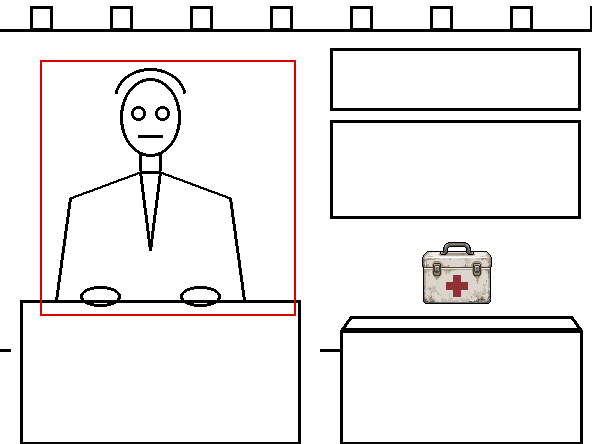
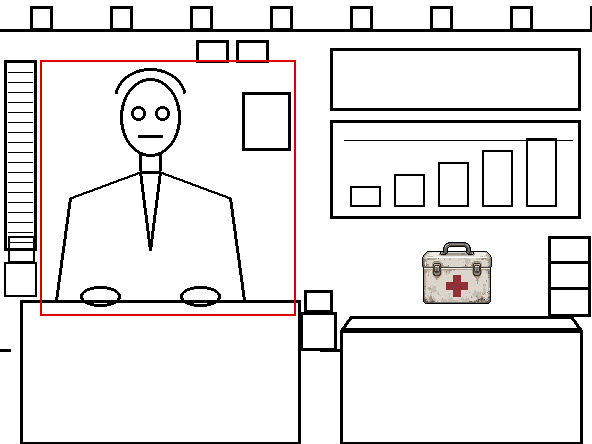
망상홈쇼핑 v7: 빈 배경을 스튜디오 물건으로 채움
Claude-Session: https://claude.ai/code/session_01JodrzfFwd9L9MmMm1b72vB

diff --git a/game-src/art/pixellab-test-20261028/homeshop/sketch_ds_studio_v7.py b/game-src/art/pixellab-test-20261028/homeshop/sketch_ds_studio_v7.py
@@ -18,6 +18,14 @@ d.line([140,172,150,250,160,172],fill=C,width=w)
 d.rectangle([20,300,300,444],outline=C,width=w)                      # 단상
 d.ellipse([80,286,120,306],outline=C,width=w); d.ellipse([180,286,220,306],outline=C,width=w)
 d.polygon([(340,330),(582,330),(572,316),(350,316)],outline=C,width=w); d.rectangle([340,330,582,444],outline=C,width=w)
+# 빈 곳 채우기(사용자 11-09 「배경 저렇게 비워 놓을거냐」): 위키 메인 스튜디오 물건
+d.rectangle([4,60,36,250],outline=C,width=w); [d.line([8,y,32,y],fill=C,width=1) for y in range(72,246,10)]   # 왼쪽 끝 실시간 채팅 모니터(세로로 긴 화면)
+d.rectangle([196,40,228,62],outline=C,width=w); d.rectangle([236,40,268,62],outline=C,width=w)                # 큐 조명 상자 둘(박수·웃음)
+d.rectangle([242,92,290,150],outline=C,width=w)                                                               # 진행자 뒤 오른쪽 벽: 채널 로고 판(글자 없음)
+d.rectangle([300,312,336,350],outline=C,width=w); d.rectangle([304,290,332,312],outline=C,width=w)          # 단상과 테이블 사이 바닥: 빨간 우체통
+d.line([344,140,572,140],fill=C,width=1); [d.rectangle([350+i*44,150+(3-i)*12,380+i*44,206],outline=C,width=2) for i in range(5)]  # 평판 화면 안: 주문 그래픽(막대)
+d.rectangle([548,236,590,316],outline=C,width=w); [d.line([548,y,590,y],fill=C,width=w) for y in (262,288)]  # 오른쪽 끝 소품 선반
+d.rectangle([4,262,36,296],outline=C,width=2); d.rectangle([8,236,34,262],outline=C,width=2)                  # 왼쪽 끝 바닥: 선물·택배 상자 더미
 im.save('ref_v7_1_layout.png')
 # 확인용: 동작 칸 빨간 틀 + 상품 자리
 ck=im.convert('RGBA'); dd=ImageDraw.Draw(ck); dd.rectangle([40,60,295,315],outline=(220,0,0,255),width=2)

diff --git a/docs/인계/쇼핑몰_팝업_홈쇼핑_1108/망상_진행자/전체_뽑기_계획_v7.md b/docs/인계/쇼핑몰_팝업_홈쇼핑_1108/망상_진행자/전체_뽑기_계획_v7.md
@@ -21,12 +21,13 @@
 
 ## 2. 장면 v7 (v6 고칠 점 반영)
 - v6 문제: 진행자 머리~손 약 290점 → animate 최대 256 넘음 / 눈에 흰자 / 이 드러낸 웃음 / 테이블 위 빈 벽.
-- v7: 진행자를 동작 칸(가로 40~296, 세로 60~316) 안에 손까지 들어오게(얼굴 폭 60점). 눈은 흰자 없이 새카맣게, 입은 다문 미소. 테이블 위 빈 벽 → 꺼진 큰 평판 화면(안은 코드로: 상품 2배·가격·할부·남은 수량, 채팅, 가끔 세광시청 화면 튐).
+- v7: 진행자를 동작 칸(가로 40~296, 세로 60~316) 안에 손까지 들어오게(얼굴 폭 60점). 눈은 흰자 없이 새카맣게, 입은 다문 미소. 테이블 위 빈 벽 → 켜진 큰 평판 화면(주문 그래픽을 그림으로 그림. 코드는 숫자·신호 튐 정도만).
 - 기능: generate-image-v2, 592×444, 참고 2장(구도 선 v7_참고1_구도선.png 「배치·크기」, 상품 4개 v5_참고2_상품.png 「도트 크기」). 확인 그림: v7_구도선_동작칸_상품자리.png(빨간 틀 = 동작 칸).
-- 요청문(1065자):
+- 빈 곳 채움(사용자 11-09 「배경 저렇게 비워 놓을거냐」): 왼쪽 끝 실시간 채팅 모니터와 선물·택배 상자, 진행자 위 큐 조명 상자 둘, 진행자 뒤 채널 로고 판, 단상과 테이블 사이 빨간 우체통(거꾸로 된 피 십자가), 평판 화면은 켜진 주문 그래픽(막대), 오른쪽 끝 소품 선반. 모두 위키 메인 스튜디오·건물주 문단 근거.
+- 요청문(1416자):
 
 ```
-Pixel art TV home shopping broadcast frame, a 2000s CRT TV shot, 4:3. MEDIUM SHOT of the show host on the left, seen from the head to the hands, his face about 60 pixels wide, standing behind a glossy red podium with a chrome edge, both hands resting on its top edge, facing the camera, room above his head. He wears a black suit, white shirt and dark red tie, combed black hair, an unnaturally white made-up face, huge eyes that are completely black with no whites, a thin closed-lip smile, no teeth showing. RIGHT HALF: a large flat wall-mounted studio screen, switched off, plain dark glass; below it a waist-high demo table with a white cloth, its top bare and empty. BEHIND: glossy red and black lacquer set panels with gold trim, a black light truss with spotlights along the top edge, a sales board of red digits only in the upper right. LIGHT: bright key light on his face and on the table top, pink and cyan rim light, deep black shadows. Dense, highly detailed pixel art, crisp pixel clusters, no dithering, no blur. No letters, no words, no other people.
+Pixel art TV home shopping broadcast frame, a 2000s CRT TV shot, 4:3, PACKED WITH DETAIL, no empty wall. MEDIUM SHOT of the show host on the left, head to hands, face about 60 pixels wide, behind a glossy red podium with a chrome edge, both hands resting on its top edge, facing the camera. Black suit, white shirt, dark red tie, combed black hair, unnaturally white made-up face, huge eyes completely black with no whites, thin closed-lip smile, no teeth. Far left edge: a tall live chat monitor of scrolling grey lines, a pile of ribboned gift boxes and shipping boxes below it. Behind the host: two cue light boxes up top with clap and smile icons, a channel logo plate, no letters. Between the podium and the table on the floor: a red Korean street mailbox with an upside-down dried-blood cross. Right half: a large flat wall-mounted studio screen showing a glowing order graphic of rising bars, below it a waist-high demo table with a white cloth, its top bare and empty; at the far right a prop shelf of product boxes. Behind everything: glossy red and black lacquer set panels with gold trim, a black light truss with spotlights along the top, a sales board of red digits in the upper right. LIGHT: bright key light on his face and the table top, pink and cyan rim light, deep black shadows. Dense, highly detailed pixel art, crisp pixel clusters, no dithering, no blur. No letters, no words, no other people.
 ```
 
 ## 3. 동작 클립 (진행자 칸 256×256, 처음·끝 = 원본)
